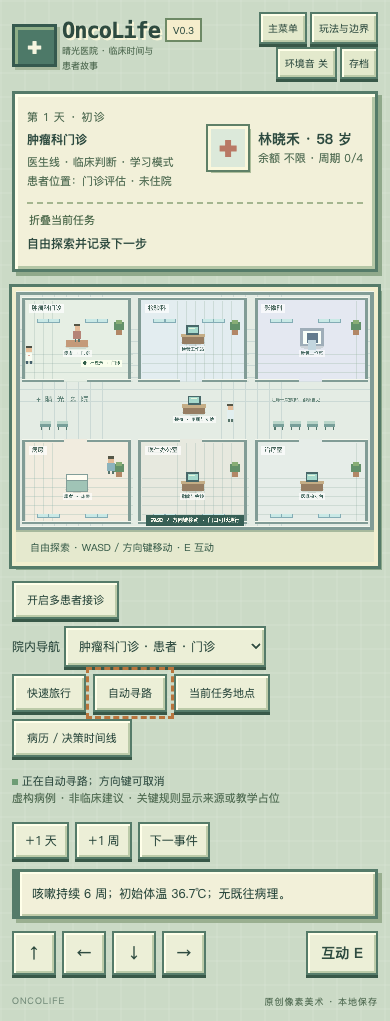
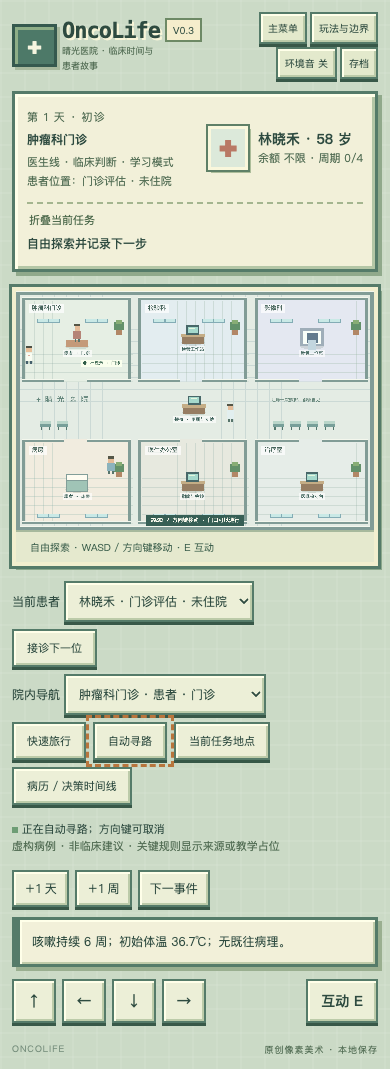
feat: enable default multi-patient clinic and parallel test orders

Changed region(s): [[0.0, 0.0, 0.9846, 1.0], [0.6462, 0.1214, 0.9231, 0.1822]]

diff --git a/src/ui/V03Panel.tsx b/src/ui/V03Panel.tsx
@@ -1,3 +1,5 @@
+import {supportingTests} from '../medical/supporting-tests';
+import {nextPatientId} from '../engine/v03-campaign';
 import {careSetting} from '../engine/care-setting';
 import {caseReport} from '../medical/profiles';
 import {PatientRecord} from './PatientRecord';
@@ -14,16 +16,18 @@ const names:Record<string,string>={ordered:'已开单',scheduled:'已预约',col
 export function V03Panel(){
  const g=useV03(),s=g.state,p=g.panel!,c=cases[s.caseId],doctor=s.journey==='doctor';
  const [disease,setDisease]=useState(s.hypothesis.disease),[stage,setStage]=useState(s.hypothesis.stage),[reason,setReason]=useState(s.hypothesis.reason);
+ const [selectedTests,setSelectedTests]=useState<string[]>([]);
  const reportEvents=s.events.filter(e=>e.availableAt<=s.day&&e.completedAt===undefined);
  const reports=s.orders.map(o=><div className="report" key={o.id}><b>{testInfo[o.testId].name} · {names[o.status]||o.status}</b><p>预约第 {o.scheduledAt} 天 · 可用第 {o.availableAt} 天 · {o.completedAt?`生成第 ${o.completedAt} 天`: '待生成'}</p>{o.result&&<p className="report-text">{orderResult(o)}</p>}{o.failureReason&&<p>{o.failureReason}</p>}{reportEvents.filter(e=>e.id===`report:${o.id}:${o.attempt||0}`).map(e=><button key={e.id} onClick={()=>g.dispatch({type:'ack',id:e.id})}>查看并确认报告</button>)}{['ordered','scheduled'].includes(o.status)&&<button onClick={()=>g.dispatch({type:'orderAction',action:'cancel',orderId:o.id})}>取消预约（退 80%）</button>}{['failed','insufficient_sample'].includes(o.status)&&<><button onClick={()=>g.dispatch({type:'orderAction',action:'recollect',orderId:o.id})}>{o.status==='failed'?'免费重做':'重新取样（100 币）'}</button>{o.status==='failed'&&<button onClick={()=>g.dispatch({type:'orderAction',action:'refund',orderId:o.id})}>申请技术失败退款</button>}</>}<small>财务：原收费 {s.transactions.find(t=>t.id===o.transactionId)?.amount||0}；已退 {s.transactions.filter(t=>t.kind==='refund'&&t.relatedId===o.transactionId).reduce((a,t)=>a+t.amount,0)} 游戏币。订单状态与账本独立。</small></div>);
  const title=p==='record'?(doctor?'临床时间线与账单':'个人日记与预约'):p==='help'?'知识来源与玩法':p==='clinic'?(doctor?'门诊与诊断推理':'我的就医旅程'):p==='lab'?'检查与报告':p==='therapy'?'治疗与周期':'住院与症状管理';
  const source=sources.find(x=>x.id===s.source);
  return <div className="overlay"><section className="modal" role="dialog" aria-modal="true" aria-label={title}><div className="modalhead"><div><small>{doctor?'医生线':'患者线'} · {c.title.split(' · ')[0]}</small><h2>{title}</h2></div><button onClick={()=>g.open(null)}>返回医院 ×</button></div>
+ {doctor&&g.campaign&&<div className="panelnav"><b>在管患者 {Object.keys(g.campaign.patients).length} 人</b><select aria-label="切换接诊患者" value={s.caseId} onChange={e=>g.dispatch({type:'case',caseId:e.target.value as typeof s.caseId})}>{Object.values(g.campaign.patients).map(x=><option key={x.caseId} value={x.caseId}>{cases[x.caseId].title.split(' · ')[0]} · {x.phase}</option>)}</select><button disabled={!nextPatientId(g.campaign)} onClick={()=>{const id=nextPatientId(g.campaign!);if(id)g.dispatch({type:'case',caseId:id});}}>接诊下一位</button></div>}
  <nav className="panelnav">{[['clinic',doctor?'病历':'我的故事'],['lab','检查与报告'],['therapy','治疗'],['ward','病房'],['record','日程与账单']].map(([id,label])=><button key={id} onClick={()=>g.open(id)}>{label}</button>)}</nav>
  {p==='help'&&<><button onClick={g.reset}>重新练习当前病例</button><p>移动：WASD／方向键；E 互动；导航支持快速旅行和自动寻路。临床时间由按钮推进，会停在最早未处理事件。报告当天可查看，不会再往后跳。</p><p>学习模式预算不限；闯关按六项能力目标解锁；挑战限制预算及同日资源。费用、等待、失败、恢复和评分均为虚构教学参数。方案标记“非处方教学日程”时仅演示管理节点，不能作为真实治疗建议。</p>{sources.map(x=><article key={x.id}><a href={x.url} target="_blank" rel="noreferrer">{x.name}</a><p>{x.version}</p><small>{x.scope}</small></article>)}</>}
  {p==='clinic'&&<><PatientRecord state={s}/>{doctor?<><div className="actions">{[['symptoms','症状与持续时间'],['risk','危险因素与家族史'],['history','既往史与用药'],['exam','体格检查'],['goal','患者目标与意愿']].map(([id,label])=><button key={id} onClick={()=>g.dispatch({type:'clue',id})}>{s.flags.includes(id)?'✓ ':''}{label}</button>)}</div><section className="hypothesis"><h3>诊断工作假设（可保存后修订）</h3><select aria-label="疾病假设" value={disease} onChange={e=>setDisease(e.target.value)}>{['待定','感染性病变','非小细胞肺癌','肺腺癌','小细胞肺癌','复发性非小细胞肺癌'].map(x=><option key={x}>{x}</option>)}</select><select aria-label="分期假设" value={stage} onChange={e=>setStage(e.target.value)}>{['待定','I期教学情境','III期教学情境','IV期教学情境','IVA 教学情境','广泛期教学情境','复发待再分期'].map(x=><option key={x}>{x}</option>)}</select><textarea aria-label="诊断依据" value={reason} onChange={e=>setReason(e.target.value)} placeholder="记录证据与不确定性"/><button onClick={()=>g.dispatch({type:'diagnosis',disease,stage,reason,submit:false})}>保存假设</button><button onClick={()=>g.dispatch({type:'diagnosis',disease,stage,reason,submit:true})}>提交诊断</button></section></>:<><h3>症状、家人和决定</h3><div className="actions">{(['wait','visit','describe','family','consent','refuse','rest','report'] as const).map((a,i)=><button key={a} onClick={()=>g.dispatch({type:'patient',action:a})}>{['再观察两天','前往就医','描述症状与担忧','与家属讨论支持','了解并同意下一项检查／治疗','表达暂缓意愿','安排休息与交通','向医护报告症状'][i]}</button>)}</div><p>平静感 {s.experience.calm} · 疲劳 {s.experience.fatigue} · 经济压力 {s.experience.pressure}（教学叙事值）</p></>}{s.flags.includes('diagnosis')&&<div className="report"><b>证据支持的诊断</b><p>{c.diagnosis.disease} · {c.diagnosis.stage}</p><p>{read(s,'molecular')?caseReport(s.caseId,'molecular'):'分子信息尚未解锁'}</p></div>}</>}
- {p==='lab'&&<><p>自由选择检查顺序；取材后可做病理，查看病理后可做分子检测。每项结果仅在申请和等待后生成。</p>{doctor&&<div className="testgrid">{Object.entries(testInfo).filter(([id])=>c.uniqueChecks.concat('blood','xray').includes(id)).map(([id,info])=><article className="testcard" key={id}><h4>{info.name}</h4><small>{costs[id]} 游戏币 · {info.days} 天</small><p>{investigations.find(t=>t.id===id)?.purpose||(id==='ebus'?'对适合的纵隔／肺门淋巴结取材':'结合骨痛评估病灶并辅助分期')}</p><small>可获得：{investigations.find(t=>t.id===id)?.information||'部位相关线索，仍需结合病理与整体分期'}</small><small>{['needle','pleura','ebus'].includes(id)?'负担：侵入性取材，可能出血、气胸或需再次取样；不模拟发生率。':id==='pathology'||id==='molecular'?'局限：依赖样本质量，可能不足或技术失败。':'局限：单项检查不能替代综合诊断；影像检查可能涉及辐射／造影剂或等待负担。'}</small><button onClick={()=>g.dispatch({type:'order',testId:id})}>申请{info.name}</button></article>)}</div>}{!doctor&&<button onClick={()=>g.dispatch({type:'patient',action:'consent'})}>参加医生安排的下一项检查</button>}{reports}</>}
- {p==='therapy'&&<><p>{s.flags.includes('diagnosis')?c.regimen?.name:'请先完成诊断及共同决策，方案尚未揭示。'}</p>{s.flags.includes('diagnosis')&&<><small>{c.regimen?.source} · 具体剂量不提供。靶向、局部治疗、手术与复发路径日程均为教学占位。</small><div className="actions"><button onClick={()=>g.dispatch({type:'therapy',action:'start'})}>{doctor?'建立结构化治疗方案':'同意医生提出的治疗路径'}</button><button onClick={()=>g.dispatch({type:'therapy',action:'support'})}>共同选择先支持照护与复评</button></div></>}{s.therapy&&<><p>门诊或住院均须进行治疗前安全复核，不以办理住院代替检查。当前模拟由 NPC 完成当日血液／肾功能复查（120 游戏币，教学即时出报告）及非血液毒性、意愿与预处理核对。真实方案还需按适应证评估肝功能、电解质等；本版未模拟这些检验数值。旧报告不能替代当天复核。</p><div className="cyclebar">已执行 {s.therapy.administrations.filter(a=>a.status==='given').length} 个治疗节点 · 完成评估 {s.therapy.assessments.filter(a=>a.status==='done').length}/{c.regimen?.cycles}<progress max={c.regimen?.cycles} value={s.therapy.assessments.filter(a=>a.status==='done').length}/></div><div className="actions">{(['prepare','give','hold','resume','adjust','switch','response','stop'] as const).map((a,i)=><button key={a} onClick={()=>g.dispatch({type:'therapy',action:a})}>{(doctor?['完成治疗前安全复核','执行下一次治疗','暂缓治疗','复评后恢复治疗','记录毒性后调整','申请 MDT 更换方案','完成周期评估','共同决定终止治疗']:['参加治疗前评估','参加下一次治疗','表达暂缓意愿','同意复评后恢复','与医生讨论毒性调整','申请进一步会诊','参加周期评估','表达终止治疗意愿'])[i]}</button>)}</div>{!read(s,'blood')&&<button onClick={()=>doctor?g.dispatch({type:'order',testId:'blood'}):g.dispatch({type:'patient',action:'consent'})}>{doctor?'申请血常规与肾功能':'同意治疗前检查'}</button>}</>}{reports}</>}
+ {p==='lab'&&<><p>可勾选多项检查，同日批量开单并行等待，无需等上一份报告。病理仍需可用组织，分子检测仍需先查看病理；未满足条件的项目会说明原因，不会收费。</p>{doctor&&<><div className="batch-orders"><b>已选 {selectedTests.length} 项 · 预计 {selectedTests.reduce((n,id)=>n+costs[id],0)} 游戏币</b><button disabled={!selectedTests.length} onClick={()=>{g.dispatch({type:'orderBatch',testIds:selectedTests});setSelectedTests([]);}}>批量申请所选检查</button><small>逐项检查适应条件与预算；若部分未开出，请看下方反馈。未申请项目不会产生结果。</small></div><div className="testgrid">{Object.entries(testInfo).filter(([id])=>c.uniqueChecks.concat('blood','xray','liver','electrolytes','coagulation','ecg').includes(id)).map(([id,info])=><article className="testcard" key={id}><h4>{info.name}</h4><label><input type="checkbox" aria-label={"选择"+info.name} checked={selectedTests.includes(id)} onChange={e=>setSelectedTests(e.target.checked?[...selectedTests,id]:selectedTests.filter(x=>x!==id))}/> 加入本次检查</label><small>{costs[id]} 游戏币 · {info.days} 天</small><p>{investigations.find(t=>t.id===id)?.purpose||supportingTests[id as keyof typeof supportingTests]?.purpose||(id==='ebus'?'对适合的纵隔／肺门淋巴结取材':'结合骨痛评估病灶并辅助分期')}</p><small>可获得：{investigations.find(t=>t.id===id)?.information||supportingTests[id as keyof typeof supportingTests]?.information||'部位相关线索，仍需结合病理与整体分期'}</small><small>{id==='ecg'?'负担：静息心电图无电离辐射；单次记录可能漏掉间歇异常。':['blood','liver','electrolytes','coagulation'].includes(id)?'负担：抽血不适或淤青；实验室结果需结合症状及既往记录。':['needle','pleura','ebus'].includes(id)?'负担：侵入性取材，可能出血、气胸或需再次取样；不模拟发生率。':id==='pathology'||id==='molecular'?'局限：依赖样本质量，可能不足或技术失败。':'局限：单项检查不能替代综合诊断；影像检查可能涉及辐射／造影剂或等待负担。'}</small><button onClick={()=>g.dispatch({type:'order',testId:id})}>申请{info.name}</button></article>)}</div></>}{!doctor&&<button onClick={()=>g.dispatch({type:'patient',action:'consent'})}>参加医生安排的下一项检查</button>}{reports}</>}
+ {p==='therapy'&&<><p>{s.flags.includes('diagnosis')?c.regimen?.name:'请先完成诊断及共同决策，方案尚未揭示。'}</p>{s.flags.includes('diagnosis')&&<><small>{c.regimen?.source} · 具体剂量不提供。靶向、局部治疗、手术与复发路径日程均为教学占位。</small><div className="actions"><button onClick={()=>g.dispatch({type:'therapy',action:'start'})}>{doctor?'建立结构化治疗方案':'同意医生提出的治疗路径'}</button><button onClick={()=>g.dispatch({type:'therapy',action:'support'})}>共同选择先支持照护与复评</button></div></>}{s.therapy&&<><p>门诊或住院均须进行治疗前安全复核，不以办理住院代替检查。当前模拟由 NPC 完成当日血液／肾功能复查（120 游戏币，教学即时出报告）及非血液毒性、意愿与预处理核对。肝功能、电解质、凝血与心电图可在检查页按指征申请；新增数值为教学样本，未纳入自动给药安全判断。旧报告不能替代当天复核。</p><div className="cyclebar">已执行 {s.therapy.administrations.filter(a=>a.status==='given').length} 个治疗节点 · 完成评估 {s.therapy.assessments.filter(a=>a.status==='done').length}/{c.regimen?.cycles}<progress max={c.regimen?.cycles} value={s.therapy.assessments.filter(a=>a.status==='done').length}/></div><div className="actions">{(['prepare','give','hold','resume','adjust','switch','response','stop'] as const).map((a,i)=><button key={a} onClick={()=>g.dispatch({type:'therapy',action:a})}>{(doctor?['完成治疗前安全复核','执行下一次治疗','暂缓治疗','复评后恢复治疗','记录毒性后调整','申请 MDT 更换方案','完成周期评估','共同决定终止治疗']:['参加治疗前评估','参加下一次治疗','表达暂缓意愿','同意复评后恢复','与医生讨论毒性调整','申请进一步会诊','参加周期评估','表达终止治疗意愿'])[i]}</button>)}</div>{!read(s,'blood')&&<button onClick={()=>doctor?g.dispatch({type:'order',testId:'blood'}):g.dispatch({type:'patient',action:'consent'})}>{doctor?'申请血常规与肾功能':'同意治疗前检查'}</button>}</>}{reports}</>}
  {p==='ward'&&<><p>门诊问诊、检查及适合的日间治疗不占住院床位。需要强化观察、症状处理或病例规定的治疗支持时再申请住院；并非每次化疗都住院。入院评估不能替代每周期治疗前安全复核。</p><p>本病例住院评估理由：{c.admissionReason}</p><button onClick={()=>g.open('therapy')}>查看治疗前检查与预约</button><p>空床 {s.resources.beds} · 患者位置：{careSetting(s)}</p><div className="actions">{(['request','admit','assess','discharge'] as const).map((a,i)=><button key={a} onClick={()=>g.dispatch({type:'admission',action:a})}>{['申请住院评估','办理入院','完成入院评估','出院评估与记录'][i]}</button>)}</div>{s.admissions.map(a=><div className="report" key={a.id}>{names[a.status]} · 申请 {a.requestedAt} 天 · 入院 {a.admittedAt??'待定'} · 出院 {a.dischargedAt??'待定'}<p>{a.notes.join('；')}</p></div>)}{reportEvents.some(e=>e.kind==='adverse')&&<div className="warning"><h3>急性事件：发热伴血细胞异常</h3><p>请先评估，再同步启动必要检查和紧急处理；不能仅等待。</p>{(['assess','investigate','treat'] as const).map((a,i)=><button key={a} onClick={()=>g.dispatch({type:'adverse',action:a})}>{doctor?['紧急临床评估','感染与血液检查','启动急诊处置与支持'][i]:['向医生求助并接受评估','配合紧急检查','接受医护急诊处置与支持'][i]}</button>)}</div>}</>}
  {p==='record'&&<><PatientRecord state={s}/><button onClick={()=>exportSave('oncolife-v03-'+s.journey+'.json',JSON.stringify(g.campaign||s,null,2))}>导出当前存档</button><button onClick={()=>exportSave('oncolife-legacy-saves.json',JSON.stringify(Object.fromEntries(Object.keys(localStorage).filter(k=>k.startsWith('oncolife-v1')||k.startsWith('oncolife-v2')).map(k=>[k,localStorage.getItem(k)])),null,2))}>导出保留的旧版存档</button><h3>日程：过去、当前与已知预约</h3>{s.events.filter(e=>!['adverse','finance'].includes(e.kind)||e.availableAt<=s.day).sort((a,b)=>a.availableAt-b.availableAt||a.priority-b.priority).map(e=><div className="report" key={e.id}><b>第 {e.scheduledAt} 天 · {e.title}</b><p>计划 {e.scheduledAt} · 可用 {e.availableAt} · 发生 {e.occurredAt??'未来'} · 查看 {e.acknowledgedAt??'未确认'} · 完成 {e.completedAt??'未完成'}{e.payload?.cancelled?' · 已取消原预约':''}</p>{e.requiresAction&&e.availableAt<=s.day&&e.completedAt===undefined&&<button onClick={()=>['administration','assessment'].includes(e.kind)?g.open('therapy'):e.kind==='adverse'?g.open('ward'):g.dispatch({type:'ack',id:e.id})}>{['administration','assessment','adverse'].includes(e.kind)?'前往处理':'查看并确认'}</button>}</div>)}<h3>费用账本 · {s.mode==='learning'?'学习模式不限':`余额 ${s.balance} 游戏币`}</h3>{s.transactions.map(t=><p key={t.id}>{t.day} 天 · {t.kind==='charge'?'扣费':'退款'} {t.amount} · {t.description}<small>交易 {t.id} · 原交易／关联订单 {t.relatedId}</small></p>)}<h3>决策日志</h3>{s.log.map((l,i)=><details key={i}><summary>第 {l.day} 天 · {l.choice}</summary><p>{l.text}</p><small>当时证据：{l.known.join('；')}</small></details>)}</>}
  {s.mode==='challenge'&&<details><summary>挑战资源：援助、转诊与加急安排</summary><p>在管患者 {g.campaign?Object.keys(g.campaign.patients).length:1} 人；通过地图下方患者列表接诊／切换。时间、预算、床位和当天设备资源共享。</p><p>加急名额 {s.resources.urgentSlots} · 治疗名额 {s.resources.infusionSlots}（每日重置）；急诊处置不受加急影像名额限制。</p><button onClick={()=>g.dispatch({type:'challenge',action:'aid'})}>申请一次援助</button><button onClick={()=>g.dispatch({type:'challenge',action:'transfer'})}>协调非紧急转诊</button><button onClick={()=>g.dispatch({type:'challenge',action:'reserveUrgent'})}>预留本日加急检查</button></details>}

diff --git a/src/engine/v03-store.ts b/src/engine/v03-store.ts
@@ -10,4 +10,4 @@ const campaignKey=(j:Journey,m:Mode='challenge')=>m==='challenge'?`oncolife-v3-c
 function loadCampaign(j:Journey,id:CaseId):Campaign{try{const c=JSON.parse(localStorage.getItem(campaignKey(j))||'null');if(c?.version===3&&c.journey===j&&c.patients)return selectPatient(c,id);}catch{}return campaign(j,id);}
 function saveCampaign(c:Campaign){localStorage.setItem(campaignKey(c.journey,c.patients[c.activeId]!.mode),JSON.stringify(c));for(const s of Object.values(c.patients))save(s);}
 type Store={state:GameState;campaign:Campaign|null;menu:boolean;panel:string|null;room:string;notice:string;dispatch:(c:Parameters<typeof run>[1])=>void;enter:(j:Journey,mode?:Mode,caseId?:CaseId)=>void;open:(p:string|null)=>void;setRoom:(r:string)=>void;time:(d:number|'next')=>void;save:()=>void;mainMenu:()=>void;multi:()=>void;reset:()=>void};
-export const useV03=create<Store>((set,get)=>{const update=(s:GameState)=>{const ok=save(s);set({state:s,notice:ok?'V0.3 自动存档已更新':'保存失败，请检查浏览器存储'});};return {state:initialV03(),campaign:null,menu:true,panel:null,room:'医院大厅',notice:'医生与患者、病例和模式独立存档',dispatch:c=>{const pool=get().campaign;if(pool){if(c.type==='case'&&!pool.patients[c.caseId]){const old=localStorage.getItem(key(pool.journey,get().state.mode,c.caseId));if(old)localStorage.setItem(key(pool.journey,get().state.mode,c.caseId)+'-before-campaign',old);}const n=campaignRun(pool,c);try{saveCampaign(n);}catch{}set({campaign:n,state:n.patients[n.activeId]!,notice:'多患者共享时间、预算与资源已更新'});}else update(run(get().state,c));},enter:(j,m='learning',selected)=>{const c=selected??savedEntry(localStorage,j,m)??(m==='learning'?'driver-negative':randomCase(crypto.getRandomValues(new Uint32Array(1))[0]/4294967296));localStorage.setItem(entryKey(j,m),c);if(m==='challenge'){const pool=loadCampaign(j,c);try{saveCampaign(pool);}catch{}set({campaign:pool,state:pool.patients[c]!,menu:false,panel:null});}else{try{const pool=JSON.parse(localStorage.getItem(campaignKey(j,m))||'null') as Campaign|null;if(j==='doctor'&&pool?.version===3&&pool.patients?.[c]){pool.activeId=c;set({campaign:pool,state:pool.patients[c]!,menu:false,panel:null});return;}}catch{}const s=load(j,m,c);set({campaign:null,state:s,menu:false,panel:null});save(s);}},open:p=>set({panel:p==='scan'?'lab':p==='office'?'record':p==='lobby'?'clinic':p}),setRoom:r=>set({room:r}),time:d=>get().dispatch({type:'advance',days:d}),save:()=>set({notice:save(get().state)?'存档成功':'保存失败'}),mainMenu:()=>set({menu:true,panel:null}),multi:()=>{const s=get().state;if(s.journey!=='doctor')return;const saved=localStorage.getItem(campaignKey(s.journey,s.mode));if(saved){const pool=JSON.parse(saved) as Campaign;set({campaign:pool,state:pool.patients[pool.activeId]!});return;}const pool=campaign(s.journey,s.caseId,s.mode,s);saveCampaign(pool);set({campaign:pool,notice:'多患者接诊已开启；新病例从当前日期接诊，原独立存档保留'});},reset:()=>{const s=get().state;if(get().campaign){const pool=campaign(s.journey,s.caseId,s.mode);try{saveCampaign(pool);}catch{}set({campaign:pool,state:pool.patients[s.caseId]!,panel:null});}else update(initialV03(s.journey,s.mode,s.caseId));}};});
+export const useV03=create<Store>((set,get)=>{const update=(s:GameState)=>{const ok=save(s);set({state:s,notice:ok?'V0.3 自动存档已更新':'保存失败，请检查浏览器存储'});};return {state:initialV03(),campaign:null,menu:true,panel:null,room:'医院大厅',notice:'医生与患者、病例和模式独立存档',dispatch:c=>{const pool=get().campaign;if(pool){if(c.type==='case'&&!pool.patients[c.caseId]){const old=localStorage.getItem(key(pool.journey,get().state.mode,c.caseId));if(old)localStorage.setItem(key(pool.journey,get().state.mode,c.caseId)+'-before-campaign',old);}const n=campaignRun(pool,c);try{saveCampaign(n);}catch{}set({campaign:n,state:n.patients[n.activeId]!,notice:'多患者共享时间、预算与资源已更新'});}else update(run(get().state,c));},enter:(j,m='learning',selected)=>{const c=selected??savedEntry(localStorage,j,m)??(m==='learning'?'driver-negative':randomCase(crypto.getRandomValues(new Uint32Array(1))[0]/4294967296));localStorage.setItem(entryKey(j,m),c);if(m==='challenge'){const pool=loadCampaign(j,c);try{saveCampaign(pool);}catch{}set({campaign:pool,state:pool.patients[c]!,menu:false,panel:null});}else{try{const pool=JSON.parse(localStorage.getItem(campaignKey(j,m))||'null') as Campaign|null;if(j==='doctor'&&pool?.version===3&&pool.patients){if(!pool.patients[c]){const prior=localStorage.getItem(key(j,m,c));if(prior)localStorage.setItem(key(j,m,c)+'-before-campaign',prior);}const n=selectPatient(pool,c);saveCampaign(n);set({campaign:n,state:n.patients[c]!,menu:false,panel:null});return;}}catch{}const s=load(j,m,c);if(j==='doctor'){const pool=campaign(j,c,m,s);saveCampaign(pool);set({campaign:pool,state:pool.patients[c]!,menu:false,panel:null});}else{set({campaign:null,state:s,menu:false,panel:null});save(s);}}},open:p=>set({panel:p==='scan'?'lab':p==='office'?'record':p==='lobby'?'clinic':p}),setRoom:r=>set({room:r}),time:d=>get().dispatch({type:'advance',days:d}),save:()=>set({notice:save(get().state)?'存档成功':'保存失败'}),mainMenu:()=>set({menu:true,panel:null}),multi:()=>{const s=get().state;if(s.journey!=='doctor')return;const saved=localStorage.getItem(campaignKey(s.journey,s.mode));if(saved){const pool=JSON.parse(saved) as Campaign;set({campaign:pool,state:pool.patients[pool.activeId]!});return;}const pool=campaign(s.journey,s.caseId,s.mode,s);saveCampaign(pool);set({campaign:pool,notice:'多患者接诊已开启；新病例从当前日期接诊，原独立存档保留'});},reset:()=>{const s=get().state;if(get().campaign){const pool=campaign(s.journey,s.caseId,s.mode);try{saveCampaign(pool);}catch{}set({campaign:pool,state:pool.patients[s.caseId]!,panel:null});}else update(initialV03(s.journey,s.mode,s.caseId));}};});

diff --git a/src/engine/v03-engine.ts b/src/engine/v03-engine.ts
@@ -6,7 +6,7 @@ import {base,applyOrder,regimenTherapy,testInfo,costs} from './v03-cases';
 import {advanceClock,advanceToNext,acknowledge,nextEvent} from './v03-clock';
 import {safeToTreat} from '../medical/knowledge';
 import {refund,charge} from './v03-ledger';
-export type Command={type:'case';caseId:CaseId}|{type:'mode';mode:Mode}|{type:'clue';id:string}|{type:'order';testId:string}|{type:'orderAction';action:'cancel'|'recollect'|'refund';orderId:string}|{type:'ack';id:string}|{type:'advance';days:number|'next'}|{type:'diagnosis';disease:string;stage:string;reason:string;submit:boolean}|{type:'admission';action:'request'|'admit'|'assess'|'discharge'}|{type:'therapy';action:'start'|'prepare'|'give'|'hold'|'resume'|'adjust'|'switch'|'stop'|'response'|'support'}|{type:'challenge';action:'aid'|'transfer'|'reserveUrgent'}|{type:'patient';action:'wait'|'visit'|'describe'|'family'|'consent'|'rest'|'report'|'refuse'}|{type:'adverse';action:'assess'|'investigate'|'treat'}|{type:'life';choice:'family'|'transport'}|{type:'level'};
+export type Command={type:'case';caseId:CaseId}|{type:'mode';mode:Mode}|{type:'clue';id:string}|{type:'order';testId:string}|{type:'orderBatch';testIds:string[]}|{type:'orderAction';action:'cancel'|'recollect'|'refund';orderId:string}|{type:'ack';id:string}|{type:'advance';days:number|'next'}|{type:'diagnosis';disease:string;stage:string;reason:string;submit:boolean}|{type:'admission';action:'request'|'admit'|'assess'|'discharge'}|{type:'therapy';action:'start'|'prepare'|'give'|'hold'|'resume'|'adjust'|'switch'|'stop'|'response'|'support'}|{type:'challenge';action:'aid'|'transfer'|'reserveUrgent'}|{type:'patient';action:'wait'|'visit'|'describe'|'family'|'consent'|'rest'|'report'|'refuse'}|{type:'adverse';action:'assess'|'investigate'|'treat'}|{type:'life';choice:'family'|'transport'}|{type:'level'};
 // Seeded fictional logistics only; this is not a clinical probability model.
 export function teachingDraw(seed:number){let x=seed|0;x^=x<<13;x^=x>>>17;x^=x<<5;return (x>>>0)/4294967296;}
 export const initialV03=(journey:Journey='doctor',mode:Mode='learning',caseId:CaseId='driver-negative')=>base(caseId,journey,mode);
@@ -50,6 +50,11 @@ export function run(before:GameState,c:Command):GameState{
  if(c.type==='clue'){
   if(s.flags.includes(c.id))return say(s,'已记录：'+interviewText(s,c.id),'回看问诊','case');mark(s,c.id);
   const text=interviewText(s,c.id);s.clues.push(text);s.score.communication+=2;return say(s,text,'问诊','case');
+ }
+ if(c.type==='orderBatch'){
+  if(s.journey!=='doctor')return say(s,'患者不能开医嘱，请通过知情同意安排检查。');
+  const results:string[]=[];for(const id of [...new Set(c.testIds)]){s=order(s,id);results.push(`${testInfo[id]?.name||id}：${s.message}`);}
+  return say(s,results.join('\n'),'批量申请检查','ng122');
  }
  if(c.type==='order'){
   if(s.journey==='patient')return say(s,'患者不能开医嘱，请通过就医与知情同意安排检查。');
@@ -104,7 +109,7 @@ export function run(before:GameState,c:Command):GameState{
  return s;
 }
 function order(s:GameState,id:string){
- if(!testInfo[id]||!cases[s.caseId].uniqueChecks.concat('blood','xray').includes(id))return say(s,'该检查不在当前可用候选中。');
+ if(!testInfo[id]||!cases[s.caseId].uniqueChecks.concat('blood','xray','liver','electrolytes','coagulation','ecg').includes(id))return say(s,'该检查不在当前可用候选中。');
  if(id==='pathology'&&!s.orders.some(o=>['pleura','needle','ebus'].includes(o.testId)&&o.status==='completed'))return say(s,'病理需要可用组织。先选择取样路径。','检查依赖','ng122');
  if(id==='molecular'&&!read(s,'pathology'))return say(s,'需要先查看组织病理、确认样本可用。','检查依赖','ng122');
  const n=applyOrder(s,id);if(n.orders.length>s.orders.length){n.score.appropriateness+=id==='xray'?0:2;n.score.resources+=1;const e=n.events.at(-1)!;e.id+=':0';n.orders.at(-1)!.attempt=0;}

diff --git a/src/engine/v03-cases.ts b/src/engine/v03-cases.ts
@@ -1,6 +1,8 @@
+import {supportingTests} from '../medical/supporting-tests';
 import {cases} from '../medical/cases';import {CaseId,GameState,ClinicalEvent,Order,OrderStatus,Therapy} from './v03-types';import {charge} from './v03-ledger';
 export const costs:Record<string,number>={xray:80,ct:400,pet:900,needle:450,pleura:800,pathology:280,molecular:620,brain:300,blood:120,ebus:500,bone:500};
 export const testInfo:Record<string,{name:string;days:number;result:string;failure?:OrderStatus;reason?:string}>={xray:{name:'胸部 X 线',days:1,result:'发现需要 CT 进一步评估的异常阴影，不能确定诊断。'},ct:{name:'增强 CT',days:1,result:'影像显示目标病灶及需进一步评估的范围，不能单独确定组织类型。'},pet:{name:'PET-CT',days:2,result:'发现代谢异常线索；炎症也可摄取，不能替代组织诊断。'},needle:{name:'肺病灶取样',days:1,result:'标本量不足，需重新取样。',failure:'insufficient_sample',reason:'固定教学事件：标本不足；不代表真实失败概率。'},pleura:{name:'胸膜取样',days:2,result:'取得足量组织，送往病理。'},pathology:{name:'组织病理',days:1,result:'病理类型已确认；本病例内容逐步揭示。'},molecular:{name:'分子检测',days:2,result:'分子结果已回报；应结合病理、分期和患者目标。'},brain:{name:'脑 MRI',days:1,result:'本次未见颅内转移征象；仅为本病例教学结果。'},blood:{name:'血常规与肾功能',days:1,result:'ANC 3.2、血小板 210、CrCl 82；教学固定值。'},ebus:{name:'EBUS-TBNA',days:2,result:'纵隔标本已获取，需病理确认。'},bone:{name:'骨病灶评估',days:2,result:'骨痛相关病灶需要结合影像和临床判断。'}};
+for(const [id,t] of Object.entries(supportingTests)){costs[id]=t.cost;testInfo[id]={name:t.name,days:t.days,result:'需结合病例报告解读。'};}
 export function base(caseId:CaseId,journey:'doctor'|'patient',mode:'learning'|'gauntlet'|'challenge'):GameState{const c=cases[caseId];return {version:3,seed:2026,journey,mode,caseId,day:1,clock:{now:1,lastAdvance:1},phase:'初诊',message:c.initialClues[0],source:'case',orders:[],events:[],transactions:[],balance:mode==='learning'?1000000000:mode==='gauntlet'?8000:5000,admissions:[],level:1,unlocked:1,experience:{calm:45,fatigue:25,pressure:30},flags:[],clues:[...c.initialClues],hypothesis:{disease:'待定',stage:'待定',reason:''},score:{safety:50,reasoning:50,appropriateness:50,resources:50,time:50,communication:50},resources:{beds:mode==='challenge'?1:3,urgentSlots:mode==='challenge'?1:3,infusionSlots:mode==='challenge'?1:3},complete:false,log:[]};}
 export function scheduleReport(s:GameState,order:Order){const n=structuredClone(s),info=testInfo[order.testId];n.events.push({id:'report:'+order.id,kind:'report',caseId:n.caseId,scheduledAt:order.availableAt,availableAt:order.availableAt,priority:2,title:`查看${info.name}报告`,requiresAction:true});return n;}
 export function regimenTherapy(s:GameState,startedAt:number):Therapy{const r=cases[s.caseId].regimen!;const administrations=[];const assessments=[];for(let c=1;c<=r.cycles;c++){const cycleStart=startedAt+(c-1)*r.cycleLength;for(const d of r.administrationDays)administrations.push({cycle:c,day:d,scheduledAt:cycleStart+d-1,status:'scheduled' as const});assessments.push({cycle:c,scheduledAt:cycleStart+r.cycleLength-1,status:'pending' as const});}return {regimenId:r.id,startedAt,currentCycle:1,administrations,assessments};}

diff --git a/tests/playthrough.spec.ts b/tests/playthrough.spec.ts
@@ -56,7 +56,7 @@ test('具体病历：问诊数值、分项报告解锁及报告档案',async({pa
  await order(page,'脑 MRI');await go(page,'office');await page.getByText('检查档案 · 已查看 2 份（按日期保留）',{exact:true}).click();await expect(page.getByRole('region',{name:'结构化病历'})).toContainText('未见颅内转移');const before=await state(page);await page.reload();await page.getByRole('button',{name:/医生模式 Clinical/}).click();expect(await state(page)).toEqual(before);
 });
 test('普通医生模式交错接诊与住院区分',async({page})=>{
- await start(page);await button(page,'开启多患者接诊').click();await go(page,'lab');await button(page,'申请增强 CT').click();await close(page);
+ await start(page);await expect(page.getByLabel('当前患者')).toBeVisible();await go(page,'lab');await button(page,'申请增强 CT').click();await close(page);
  await button(page,'接诊下一位').click();const nextId=await page.getByLabel('当前患者').inputValue();expect(nextId).not.toBe('driver-negative');await expect(page.locator('.status')).toContainText('门诊评估 · 未住院');
  await button(page,'＋1 天').click();await expect(page.locator('.toast')).toContainText('林晓禾');await page.getByLabel('当前患者').selectOption('driver-negative');await confirmReports(page);
  await go(page,'ward');await expect(page.getByRole('dialog')).toContainText('入院评估不能替代每周期治疗前安全复核');await close(page);
@@ -70,4 +70,11 @@ test('开场隐藏病例，教学可指定，挑战随机后继续原进度',asy
  await button(page,'主菜单').click();await button(page,'挑战模式 · 有限资源').click();await expect(page.getByLabel('当前患者')).toHaveValue('early-nsclc');await expect(page.getByLabel('当前患者').locator('option')).toHaveCount(1);await button(page,'＋1 天').click();
  await page.reload();await button(page,'挑战模式 · 有限资源').click();expect((await state(page,'doctor','challenge','early-nsclc')).day).toBe(2);
  await button(page,'主菜单').click();await page.screenshot({path:'docs/pixel-mode-menu.png',fullPage:true});
+});
+test('默认多患者：批量并行检查后在弹窗接诊下一位',async({page})=>{
+ await start(page);await expect(page.getByLabel('当前患者')).toBeVisible();await go(page,'lab');
+ for(const name of ['增强 CT','血常规与肾功能','肝功能','电解质'])await page.getByRole('checkbox',{name:'选择'+name,exact:true}).check();
+ await button(page,'批量申请所选检查').click();let s=await state(page);expect(s.orders).toHaveLength(4);expect(s.day).toBe(1);expect(s.orders.every((o:any)=>o.availableAt===2)).toBe(true);
+ await page.getByRole('dialog').getByRole('button',{name:'接诊下一位',exact:true}).click();const id=await page.getByLabel('切换接诊患者').inputValue();expect(id).not.toBe('driver-negative');await expect(page.getByRole('dialog')).toContainText('在管患者 2 人');
+ await next(page);expect((await state(page)).orders.every((o:any)=>o.status==='completed')).toBe(true);await page.getByLabel('当前患者').selectOption('driver-negative');await go(page,'lab');await expect(page.getByRole('dialog')).toContainText('ALT 23');await page.screenshot({path:'docs/batch-investigations.png',fullPage:true});
 });

diff --git a/src/medical/supporting-tests.ts b/src/medical/supporting-tests.ts
@@ -1,0 +1,21 @@
+import {CaseId} from '../engine/v03-types';
+export const supportingTests={
+ liver:{name:'肝功能',days:1,cost:90,purpose:'评估肝脏生化基线，结合病史、合并用药及方案决定复查。',information:'ALT、AST、总胆红素；单次值不能替代完整器官功能评估。'},
+ electrolytes:{name:'电解质',days:1,cost:60,purpose:'评估钠钾等基线，尤其关注进食差、呕吐、利尿剂及心肾合并症。',information:'血钠、血钾；不由单项数值自动决定用药。'},
+ coagulation:{name:'凝血功能',days:1,cost:80,purpose:'按侵入性取材、出血史或抗凝用药等指征评估。',information:'INR、APTT；不能单独保证操作无出血风险。'},
+ ecg:{name:'心电图',days:1,cost:70,purpose:'结合心血管病史、症状和拟用药评估基线心律。',information:'静息心律和 QTc 记录；不能排除全部心脏病。'}
+};
+// Authored fictional specimens, not observations or sourced safety thresholds.
+const values:Record<CaseId,number[]>={
+ 'early-nsclc':[20,19,11,140,4.1,1.0,29,415],
+ 'locally-advanced':[26,28,14,138,4.2,1.0,30,430],
+ 'driver-positive':[24,22,12,139,4.0,1.0,28,420],
+ 'driver-negative':[23,25,13,140,4.1,1.0,29,422],
+ 'small-cell':[42,39,17,132,3.8,1.1,31,445],
+ recurrent:[31,33,15,137,3.9,1.0,30,438],
+ 'early-squamous':[25,24,12,139,4.3,1.0,28,425],
+ 'alk-positive':[18,20,10,141,4.0,1.0,29,410],
+ 'frail-elderly':[34,36,16,135,4.8,1.1,32,452],
+ oligometastatic:[22,23,11,140,4.2,1.0,28,418]
+};
+export function supportingResult(id:CaseId,testId:string){const [alt,ast,bili,na,k,inr,aptt,qtc]=values[id];const report:Record<string,string>={liver:`ALT ${alt} U/L；AST ${ast} U/L；总胆红素 ${bili} μmol/L。`,electrolytes:`血钠 ${na} mmol/L；血钾 ${k} mmol/L。`,coagulation:`INR ${inr.toFixed(1)}；APTT ${aptt} 秒。`,ecg:`本次静息记录为窦性心律，QTc ${qtc} ms；既往间歇性心律异常不能由单次记录排除。`};return report[testId]?report[testId]+' 新增虚构教学样本；参考区间依实验室／方法而异，结果需临床解读，不自动视为治疗许可。':null;}

diff --git a/src/engine/v03-campaign.ts b/src/engine/v03-campaign.ts
@@ -6,7 +6,7 @@ export function nextPatientId(c:Campaign):CaseId|undefined{const ids=Object.keys
 export type Campaign={version:3;journey:Journey;activeId:CaseId;day:number;balance:number;resources:GameState['resources'];patients:Partial<Record<CaseId,GameState>>};
 export function campaign(journey:Journey,id:CaseId='driver-negative',mode:Mode='challenge',existing?:GameState):Campaign{const s=existing?structuredClone(existing):initialV03(journey,mode,id);return {version:3,journey,activeId:id,day:s.day,balance:s.balance,resources:{...s.resources},patients:{[id]:s}};}
 function shared(c:Campaign){for(const s of Object.values(c.patients)){s.balance=c.balance;s.day=c.day;s.clock.now=c.day;s.resources={...c.resources};}return c;}
-export function selectPatient(before:Campaign,id:CaseId):Campaign{const c=structuredClone(before);c.activeId=id;c.patients[id]??=initialV03(c.journey,c.patients[before.activeId]!.mode,id);const current=c.patients[id]!;const e=nextEvent(current);current.message=`当前接诊：${cases[id].title.split(' · ')[0]}。${e&&e.availableAt<=c.day?'有待处理事件，请查看当前任务。':'可继续问诊、检查或按预约返院。'}`;return shared(c);}
+export function selectPatient(before:Campaign,id:CaseId):Campaign{if(before.activeId===id&&before.patients[id])return structuredClone(before);const c=structuredClone(before);c.activeId=id;c.patients[id]??=initialV03(c.journey,c.patients[before.activeId]!.mode,id);const current=c.patients[id]!;const e=nextEvent(current);current.message=`当前接诊：${cases[id].title.split(' · ')[0]}。${e&&e.availableAt<=c.day?'有待处理事件，请查看当前任务。':'可继续问诊、检查或按预约返院。'}`;return shared(c);}
 export function campaignRun(before:Campaign,command:Command):Campaign{
  const c=structuredClone(before);if(command.type==='case')return selectPatient(c,command.caseId);
  if(command.type==='advance'){

diff --git a/tests/batch-orders.test.ts b/tests/batch-orders.test.ts
@@ -1,0 +1,17 @@
+import {it,expect} from 'vitest';
+import {initialV03,run} from '../src/engine/v03-engine';
+import {caseReport} from '../src/medical/profiles';
+it('orders independent tests together without advancing time or duplicating fees',()=>{
+ let s=run(initialV03(),{type:'orderBatch',testIds:['ct','blood','liver','electrolytes','coagulation','ecg','ct']});
+ expect(s.orders).toHaveLength(6);expect(s.transactions).toHaveLength(6);expect(s.orders.every(o=>o.orderedAt===1&&o.availableAt===2)).toBe(true);
+ s=run(s,{type:'orderBatch',testIds:['ct','blood']});expect(s.transactions).toHaveLength(6);
+ s=run(s,{type:'advance',days:1});expect(s.orders.every(o=>o.status==='completed')).toBe(true);expect(s.orders.find(o=>o.testId==='liver')!.result).toContain('ALT 23');
+});
+it('does not charge dependent or unaffordable orders and explains individual results',()=>{
+ let s=initialV03('doctor','challenge');s.balance=500;s=run(s,{type:'orderBatch',testIds:['pathology','molecular','ct','blood']});
+ expect(s.orders.map(o=>o.testId)).toEqual(['ct']);expect(s.balance).toBe(100);expect(s.message).toContain('可用组织');expect(s.message).toContain('预算不足');
+});
+it('patient cannot open a batch; supplementary specimens are distinct and explicitly fictional',()=>{
+ const s=run(initialV03('patient'),{type:'orderBatch',testIds:['blood']});expect(s.orders).toHaveLength(0);
+ expect(caseReport('frail-elderly','electrolytes')).toContain('4.8');expect(caseReport('driver-negative','electrolytes')).toContain('4.1');expect(caseReport('small-cell','ecg')).toContain('虚构');
+});

diff --git a/src/ui/style.css b/src/ui/style.css
@@ -37,3 +37,5 @@ small,.brand small{color:#536e55}.eyebrow{color:#536e55}.brand b{font-family:mon
 .journey-choices b{display:block;border-top:2px dashed #98ad81;padding-top:10px}.journey-choices h2{font-size:22px}.journey-choices p{margin:8px 0 12px}.casegrid{gap:12px}.casegrid button{background:#f4efce;padding:12px}.casegrid small{margin-top:4px}.journey-menu h3{border-bottom:3px double #94a37a;padding-bottom:8px}
 @media(max-width:760px){main{padding:12px}.brand b{font-size:22px}.overlay{padding:13px}.modal{max-height:92dvh;padding:14px}.journey-menu .modal{padding:16px}.journey-menu h1{font-size:24px;letter-spacing:1px}.journey-choices{grid-template-columns:1fr;gap:14px}.journey-choices button{padding:14px}.journey-choices p{font-size:13px}.journey-choices span{float:right;width:40px;height:40px}.journey-choices h2{margin-top:0}.status{padding:12px;gap:12px}.mission{border-left:0;border-top:2px dashed #a4b58f}.gamewrap{border-width:4px;box-shadow:4px 4px 0 #8ba78b}.travel label{width:100%}.travel select{max-width:100%}.mapnote{letter-spacing:0}.toast{padding:12px;font-size:12px}footer{letter-spacing:1px}.toplinks button{min-height:32px}.casegrid{gap:10px}}
 @media(prefers-reduced-motion:reduce){button:active:not(:disabled){transform:none}}
+
+.batch-orders{border:2px solid #557b69;padding:12px;margin:12px 0;background:#dfe6c7}.batch-orders button{margin:8px}.testcard input[type=checkbox]{accent-color:#557b69;width:18px;height:18px;vertical-align:middle}.toast,.feedback{white-space:pre-line}

diff --git a/src/medical/profiles.ts b/src/medical/profiles.ts
@@ -1,3 +1,4 @@
+import {supportingResult} from './supporting-tests';
 import {CaseId} from '../engine/v03-types';
 import {patient} from './knowledge';
 import {investigations} from './investigations';
@@ -44,5 +45,5 @@ export const profiles:Record<CaseId,CaseProfile>={
 export function labText(id:CaseId){const l=profiles[id].labs;return `ANC ${l.anc}×10⁹/L；血小板 ${l.platelets}×10⁹/L；CrCl ${l.crcl} mL/min。固定教学样本值，不代表真实检测或恢复速度。`;}
 export function caseReport(id:CaseId,testId:string){
  if(testId==='blood')return labText(id);
- return profiles[id].reports[testId]||null;
+ return supportingResult(id,testId)||profiles[id].reports[testId]||null;
 }

diff --git a/README.md b/README.md
@@ -121,3 +121,11 @@ npm run test:e2e
 ## 开场与病例分配（2026-11-02）
 
 开场默认不展示病例清单。「指定教学病例 · 仅学习模式」展开后可定向练习，选择任何病例均进入学习模式。身份入口沿用当前模式（首次默认为学习）；闯关和挑战首次进入随机分配病例，再次进入优先继续该身份、该模式的既有进度，不会因刷新换病例。挑战患者列表仅显示已接诊患者，其他病例通过「接诊下一位」加入。旧版独立存档与多患者存档会被识别并继续使用。
+
+## 默认多患者与批量检查（2026-11-02）
+
+医生学习／闯关模式现在也默认进入多患者接诊队列，无需先开启。地图和诊疗弹窗都有「接诊下一位」；弹窗可直接切换在管患者，等待报告时继续接诊。患者线保留单人体验。
+
+检查页勾选项目后点击「批量申请所选检查」。独立项目同日开立、并行等待，各自按预计日期出报告；病理依赖可用组织，分子检测依赖已查看病理。未满足条件、重复或余额不足的项目不收费，反馈逐项说明，其他已成功订单保留。费用为游戏币。
+
+新增肝功能、电解质、凝血功能和心电图候选，有用途、等待时间、费用及具体虚构样本值。它们不是默认必做全套，也未接入自动治疗安全阈值；真实方案的完整器官功能判断仍不在模拟范围内。

diff --git a/docs/V03_DEVELOPMENT_LOG.md b/docs/V03_DEVELOPMENT_LOG.md
@@ -66,3 +66,12 @@
 - 新增 entry.ts：新闯关／挑战使用浏览器随机数选择初始病例，保存身份／模式入口；已有 campaign 优先恢复 activeId，兼容旧独立病例存档。
 - 非教学患者列表只显示在管患者，接诊下一位保留随机机制。
 - 补充抽样差异、主线／模式隔离、旧档恢复测试及浏览器开场流程。未修改医学内容或保存格式版本。
+
+## 2026-11-02：默认多患者和并行检查
+
+- 原因：普通医生需额外开启队列，检查页只有单项申请，批量能力不可见。
+- 医生进入时用当前存档建立共享队列，既有队列继续恢复；面板增加接诊／切换入口。指定其他教学病例时不覆盖已存在的队列，旧独立记录留备份。
+- 新增 orderBatch 命令，去重并逐项执行条件和费用检查，独立项目不推进日期即可并行申请；依赖及余额不满足时保留逐项失败原因，不收该项费用。
+- 新增 supporting-tests.ts，四类检查的用途、费用与十例独立的虚构样本数据；明确未接入真实临床阈值与完整给药判断。
+- 首轮浏览器发现恢复当前患者会改写最后提示，修复为同患者恢复不修改状态。
+- 修改包含 store、campaign、engine、检查数据、profiles、V03Panel、样式与回归测试；源医学文件保持不变。
